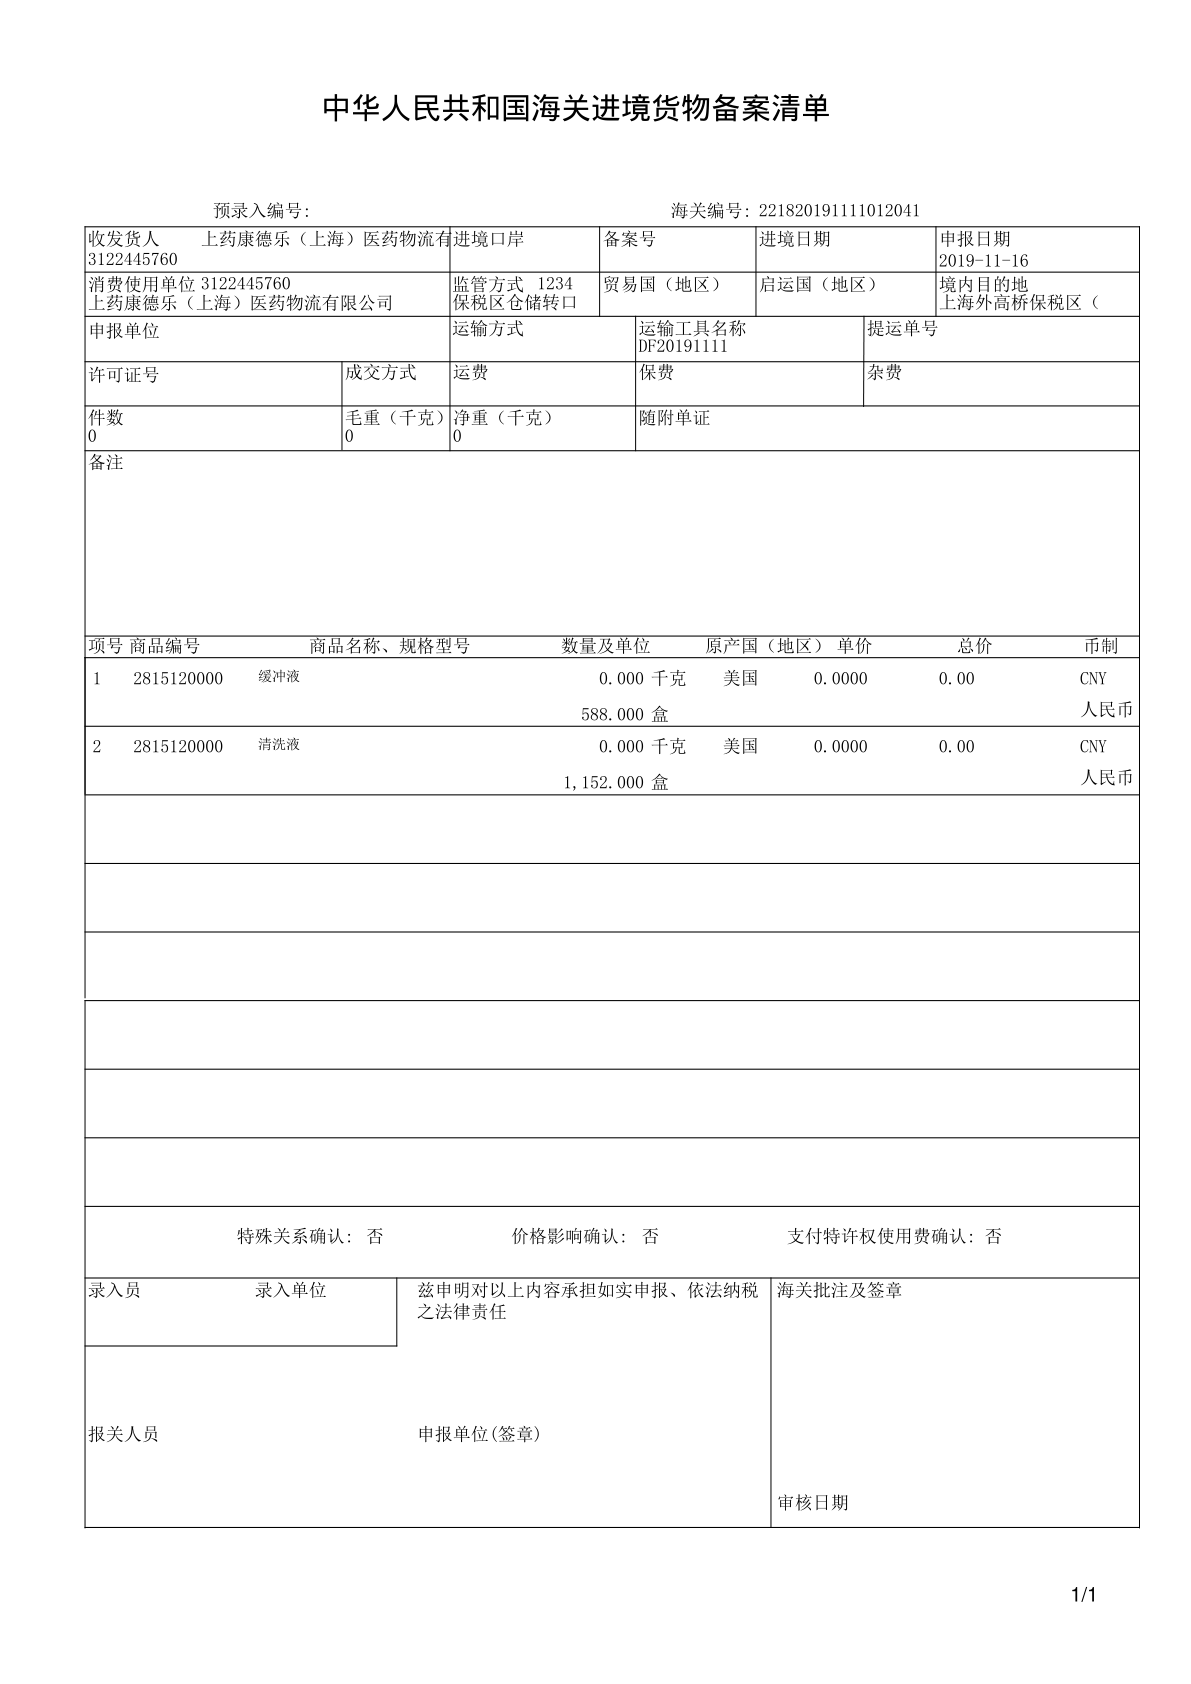
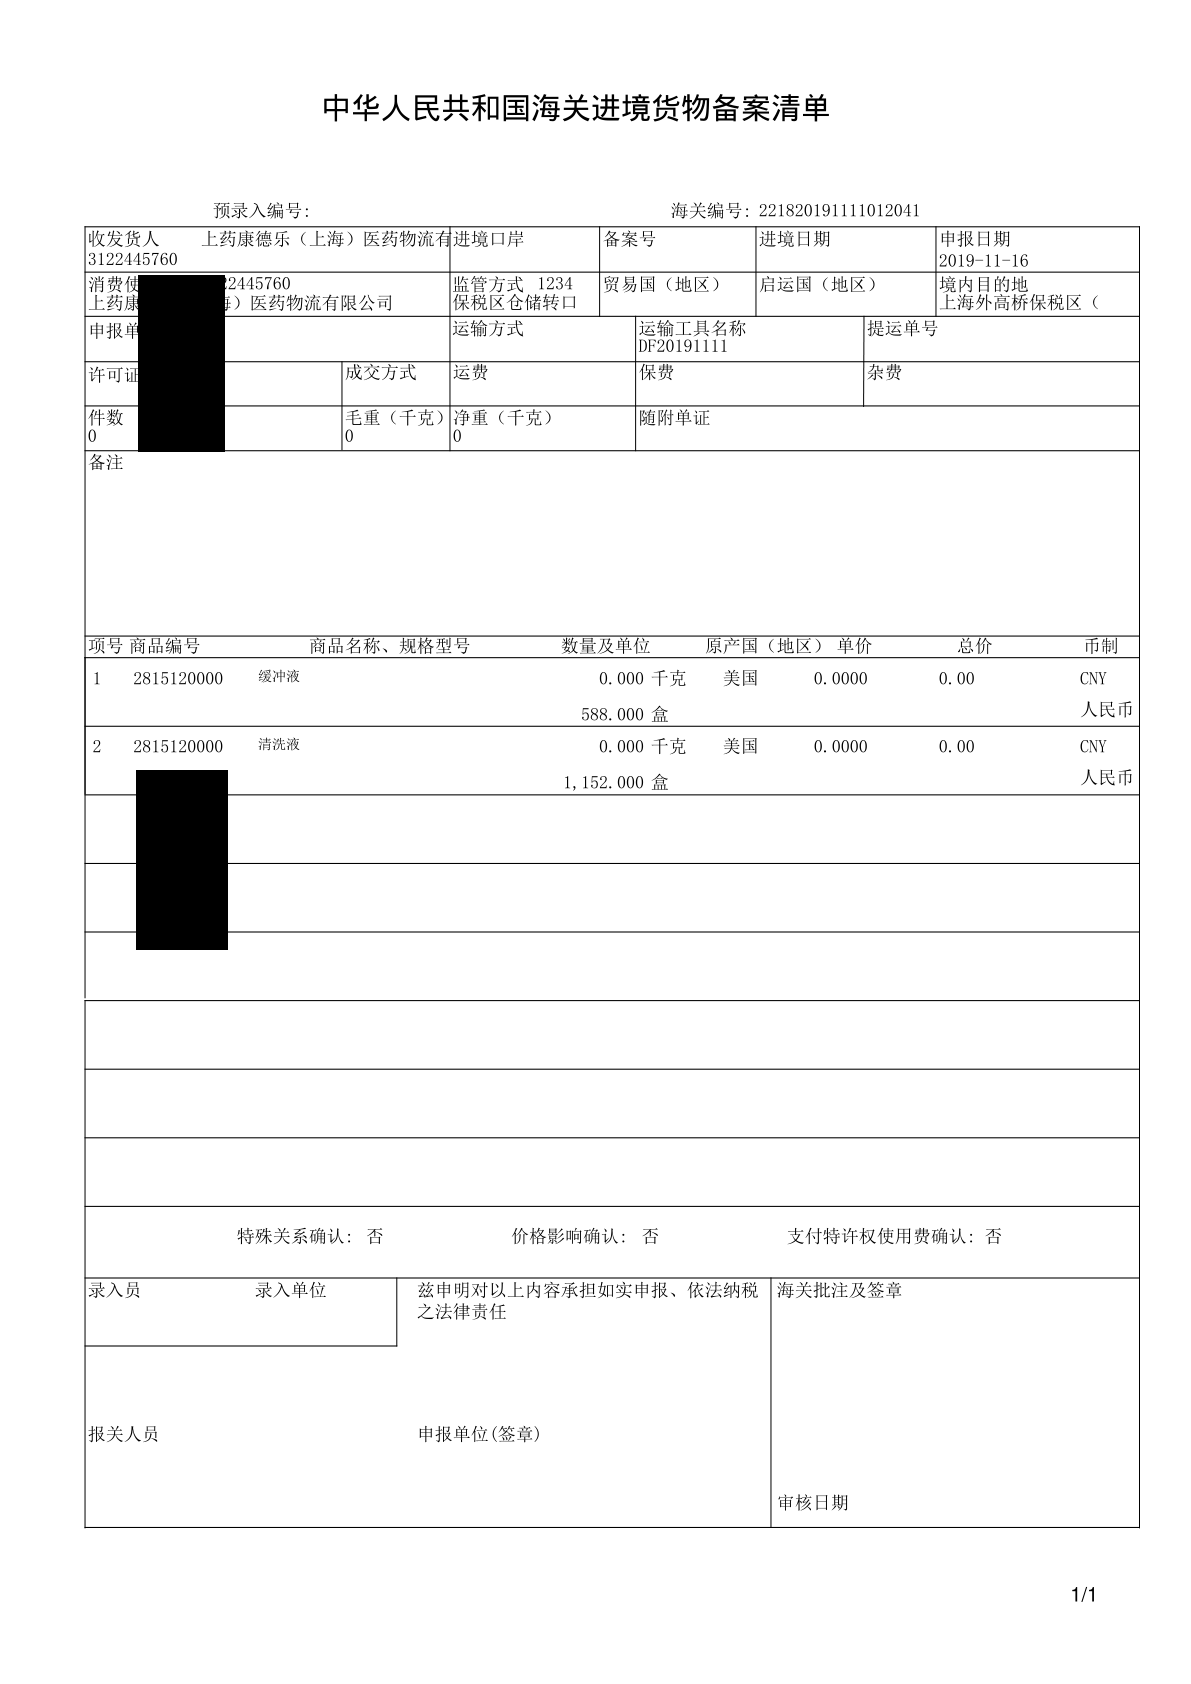
cover sections with black blocks on imgs successfully

Changed region(s): [[0.0932, 0.4323, 0.2175, 0.5867], [0.0932, 0.1544, 0.1864, 0.2779]]

diff --git a/Py/Py/pdf_cover.py b/Py/Py/pdf_cover.py
@@ -14,6 +14,7 @@ def get_pdf_files(pdf_path):
     return pdf_files
 
 def pdf_to_imgs(pdf_files):
+    pdf_imgs_full_path = []
     zoom = 200
     rotate = 0
     pdf_imgs = []
@@ -32,13 +33,50 @@ def pdf_to_imgs(pdf_files):
 
         dummy,pdf_file_name = os.path.split(pdf_file)
         pdf_img_full_path = pdf_img_path + re.sub('.[Pp][Dd][Ff]','_',pdf_file_name)+'.png'
+        pdf_imgs_full_path.append(pdf_img_full_path)
         pix_map.writePNG(pdf_img_full_path)
         pdf_img = numpy.array(Image.open(pdf_img_full_path))
-        list.append(pdf_imgs,pdf_img)
+        pdf_imgs.append(pdf_img)
     
-    return pdf_imgs
+    return pdf_imgs,pdf_imgs_full_path
+
+def cover_method(pdf_img, start_x, start_y, end_x, end_y, pdf_img_full_path):
+    for x in range(int(start_x), int(end_x) + 1):
+        for y in range(int(start_y), int(end_y) + 1):
+            pdf_img[x, y] = 0
+    pdf_img = Image.fromarray(pdf_img.astype("uint8"))
+    pdf_img.save(pdf_img_full_path)
+
+
+def img_cover(pdf_imgs,pdf_imgs_full_path):
+    coordinate_config = open('coordinate.txt', 'r')
+    start_x = []
+    start_y = []
+    end_x = []
+    end_y = []
+
+    for line in coordinate_config:
+        points = line.split()
+        start_x.append(points[0])
+        start_y.append(points[1])
+        end_x.append(points[2])
+        end_y.append(points[3])
+        
+    for i in range(0, len(pdf_imgs)):
+        for j in range(0, len(start_x)):
+            cover_method(pdf_imgs[i],start_x[j],
+                                     start_y[j],
+                                     end_x[j],
+                                     end_y[j],
+                                     pdf_imgs_full_path[i])
+
 
 if __name__ == '__main__':
+    pdf_imgs = pdf_imgs_full_path = []
     pdf_path = input('Please input the PDF folder path:')
+    if pdf_path == '':
+        pdf_path = 'test666/' # default pdf path
+        print('PDF path is:', pdf_path)
     pdf_files = get_pdf_files(pdf_path)
-    pdf_imgs = pdf_to_imgs(pdf_files)
+    pdf_imgs,pdf_imgs_full_path = pdf_to_imgs(pdf_files)
+    img_cover(pdf_imgs,pdf_imgs_full_path)
